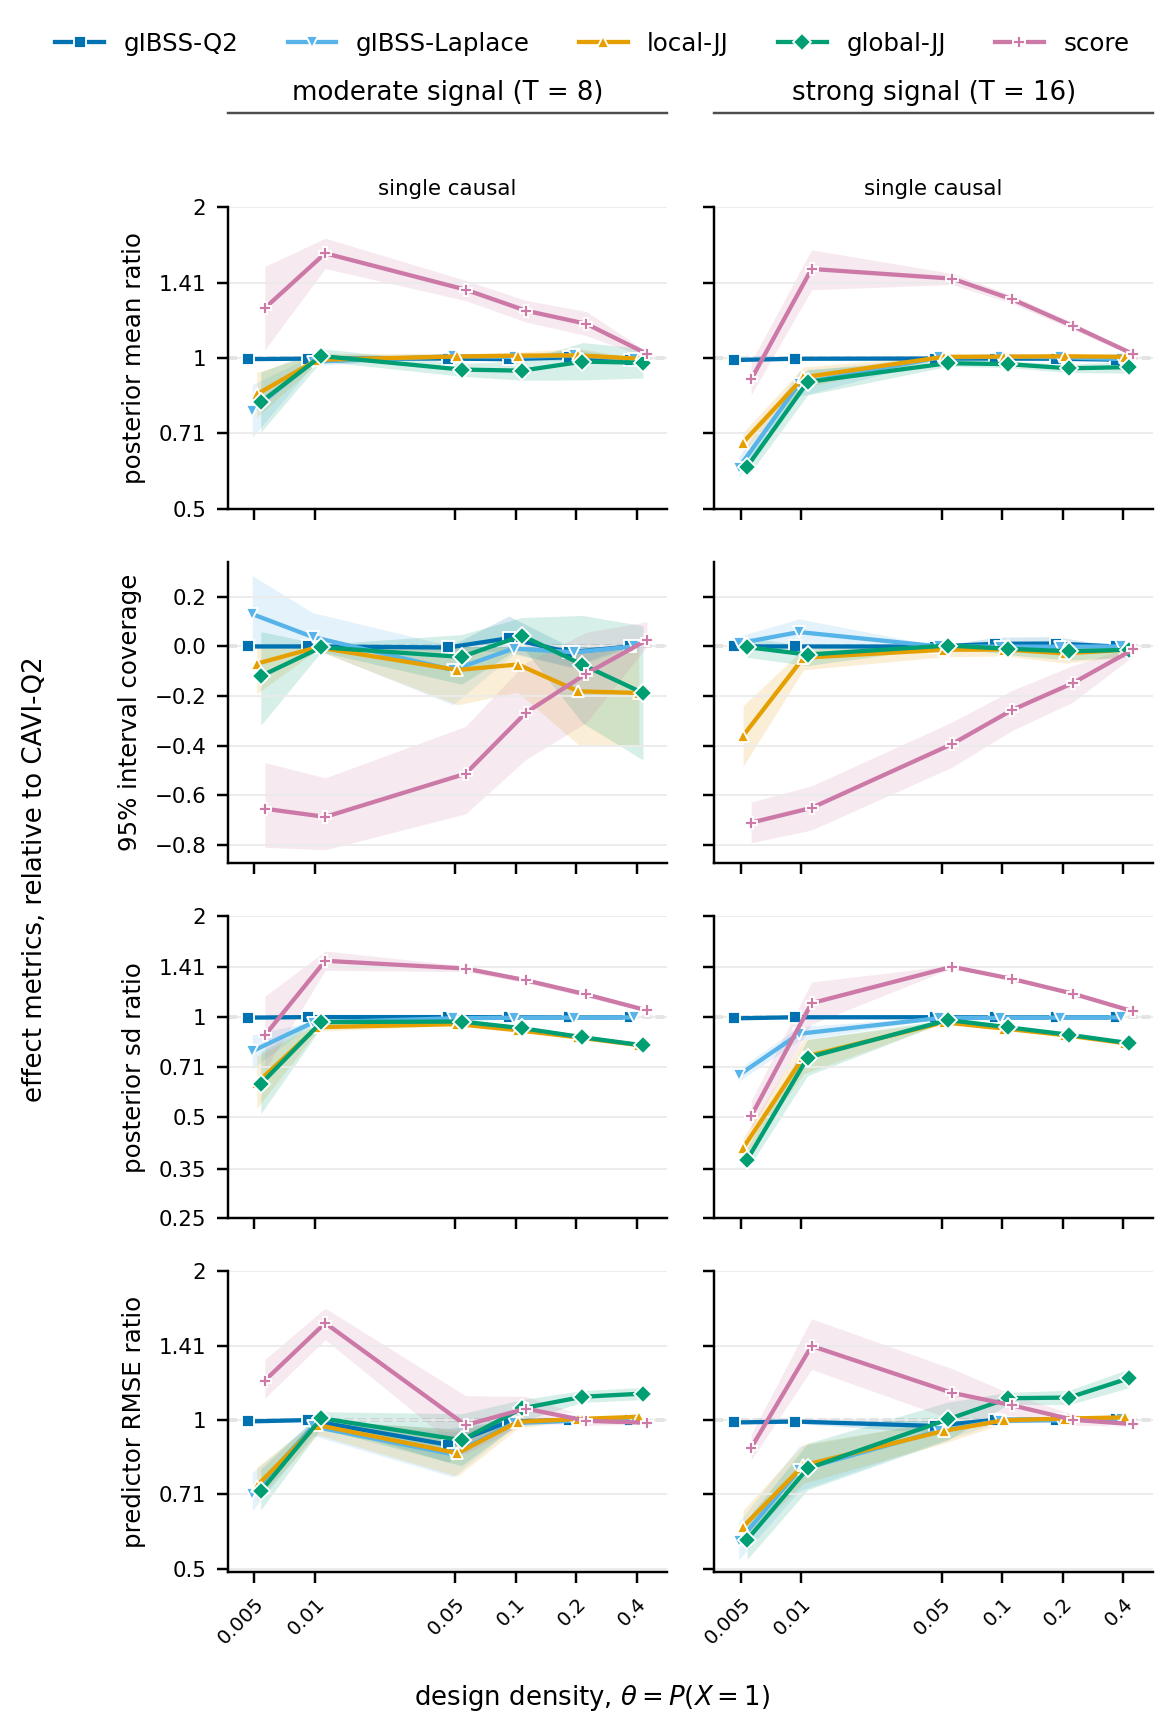
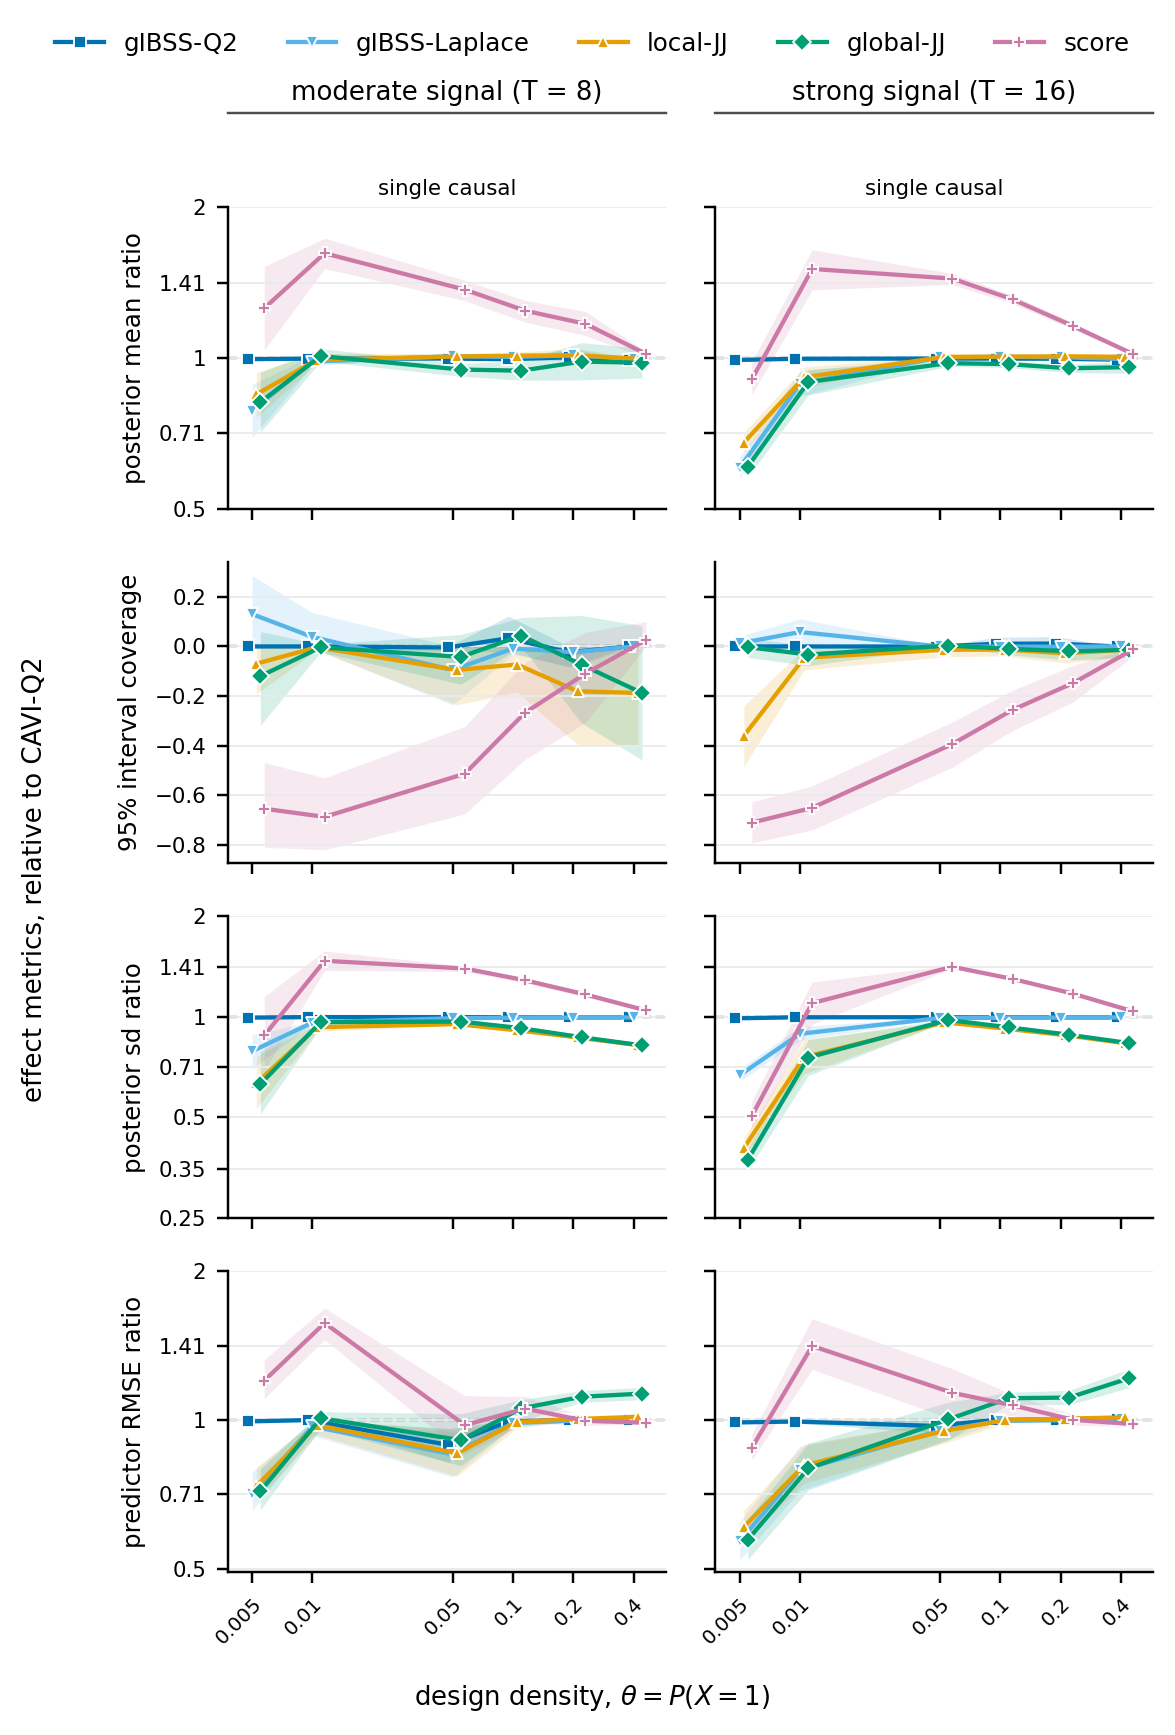
feat(twogroup): 022-024 notebooks re-rendered with the Smoothed arm
Smoothed (gIBSS-Q2 with the probit-mixture offset smoother) gets its own x-dodge slot;
full_grid and analogs list all seven arms.

diff --git a/twogroup_experiments/analysis/logistic_laplace_simulations/laplacelib.py b/twogroup_experiments/analysis/logistic_laplace_simulations/laplacelib.py
@@ -246,7 +246,8 @@ def mean_se(df: pl.DataFrame, value: str, by: list[str]) -> pl.DataFrame:
 # ------------------------------------------------------------------------------ figures
 # Multiplicative x-dodge on the log-m axis so coincident arms (gIBSS-Q2 ~ CAVI-Q2 at L=1) stay
 # visible side by side instead of stacking.
-_DODGE = {"cavi": 0.875, "gibss": 0.925, "laplace": 0.975, "localjj": 1.025, "globaljj": 1.075, "score": 1.125}
+_DODGE = {"cavi": 0.85, "smoothed": 0.9, "gibss": 0.95, "laplace": 1.0, "localjj": 1.05, "globaljj": 1.1,
+          "score": 1.15}
 
 
 def _draw_vs_m(ax, tab: pl.DataFrame, *, methods, ref, m_ticks, symlog=None):
